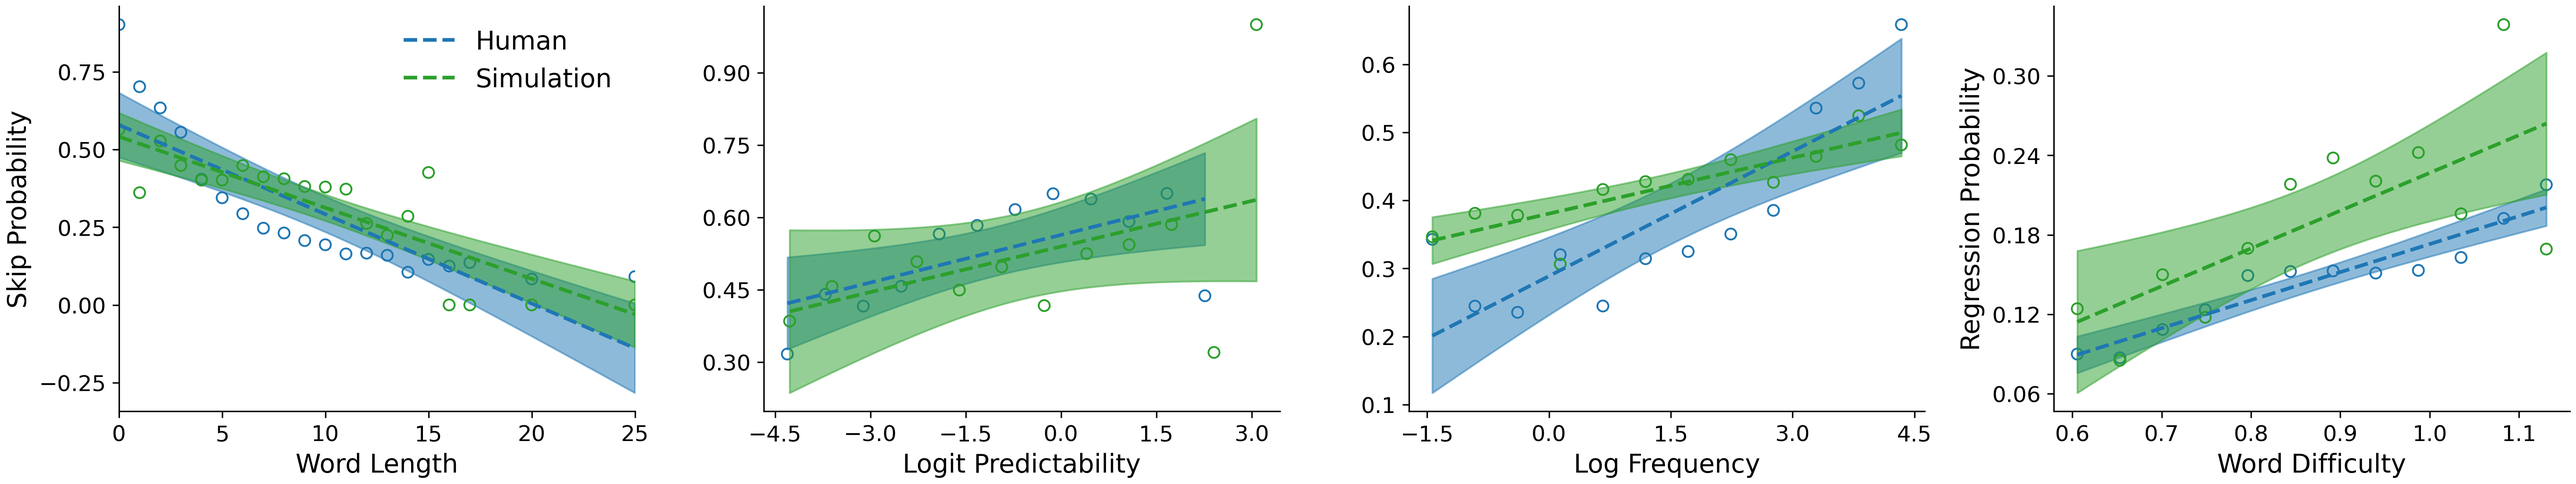
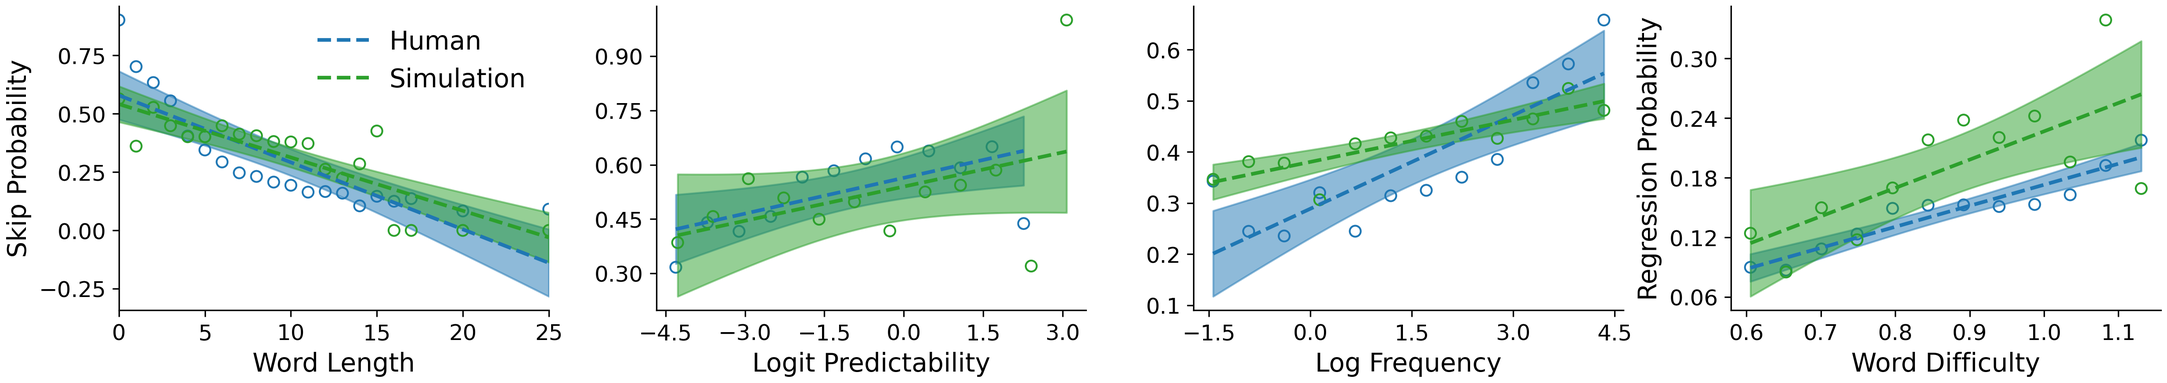
Plot >> Study 2, sentence reading. Unify the figure size.

diff --git a/step5/modules/rl_envs/sentence_read_v0319/parameter_inference/plot.py b/step5/modules/rl_envs/sentence_read_v0319/parameter_inference/plot.py
@@ -36,8 +36,8 @@ BIN_COUNT_CONT = 12
 
 # ---- Per-axes sizing controls ----
 # Keep the SAME axes size even if you have 2, 3, or 4 panels.
-PANEL_AX_WIDTH_IN   = 6.0
-PANEL_AX_HEIGHT_IN  = 4.0
+PANEL_AX_WIDTH_IN   = 5.0
+PANEL_AX_HEIGHT_IN  = 3.0
 SUBPLOT_WSPACE      = 0.25  # relative spacing between subplots
 # ----------------------------------
 

diff --git a/step5/modules/rl_envs/sentence_read_v0319/parameter_inference/README.md b/step5/modules/rl_envs/sentence_read_v0319/parameter_inference/README.md
@@ -74,7 +74,9 @@ python sentence_read_grid_test.py
 
 ---
 
-## 3) Run the grid scorer + generate figures
+## 3) Run the grid scorer + **generate figures**
+
+NOTE: if you want to update figures, you need to re-run from parameter inference, i.e., from here. Sorry haha.
 
 From `parameter_inference/`:
 
